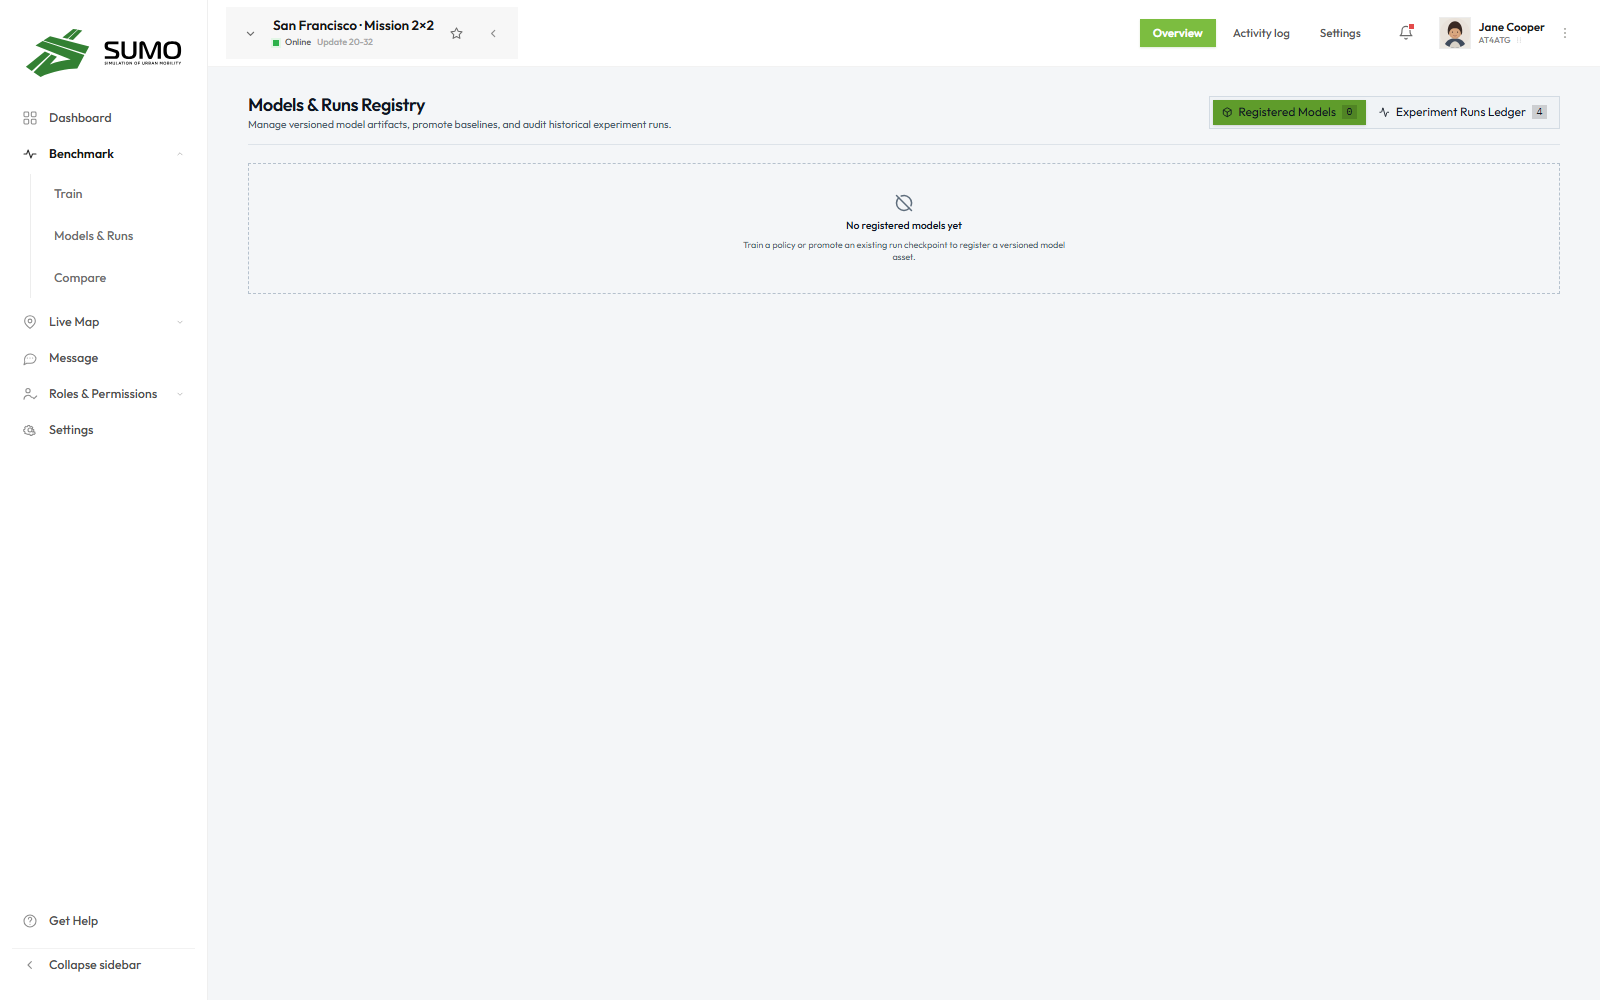
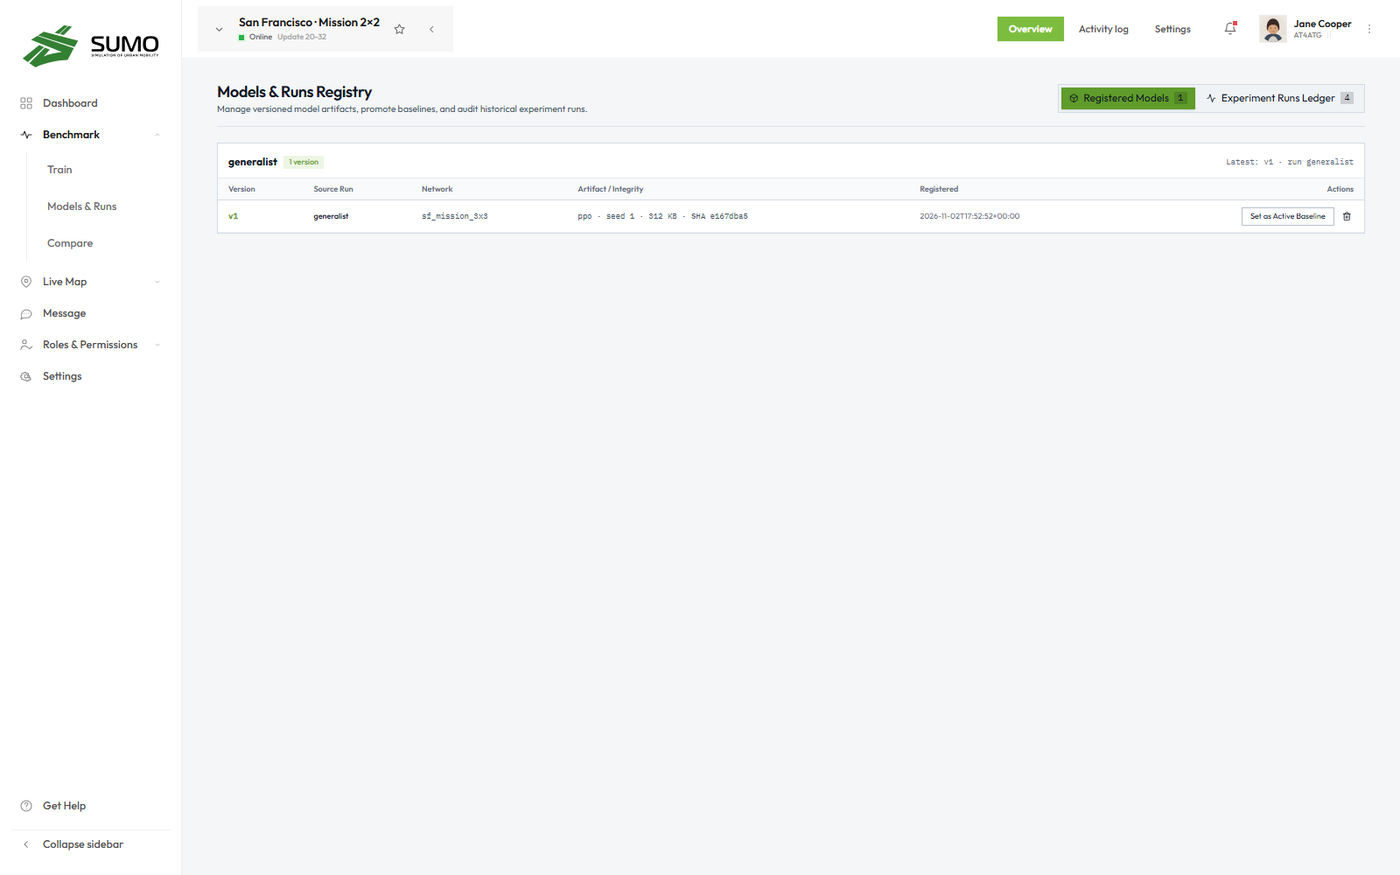
docs: recapture the screenshots with a basemap and a populated registry
The earlier shots were empty shells: no Mapbox token in the browser, so the map showed
the token prompt, and the model registry had no rows. The captures now come from a
public pk. token held only in the throwaway browser profile, and the registry lists the
real generalist checkpoint, so the images show what the dashboard actually renders.

diff --git a/README.md b/README.md
@@ -95,10 +95,11 @@ python scripts/export_dashboard_data.py              # refresh served result fil
 
 ![Live map](docs/screenshots/live-map-events.png)
 
-Captured from `npm run dev` with the API on `:8000`. These are shell captures, not a
-populated run: the live map asks for a Mapbox access token in the browser (no token is
-committed), and the model registry is empty until a checkpoint is trained, selected and
-promoted.
+Captured from `npm run dev` with the API on `:8000`. The live map and the dashboard's
+street panel are drawn with a public Mapbox `pk.` token read from the browser's
+`localStorage`, so no token is committed with the screenshots. The registry row is a real
+`generalist` checkpoint (`sf_mission_3x3`, PPO, seed 1); the 500k-step training run and
+its validation-based checkpoint selection are separate, long-lived steps.
 
 ### Controller methods
 | `method` | Description |
